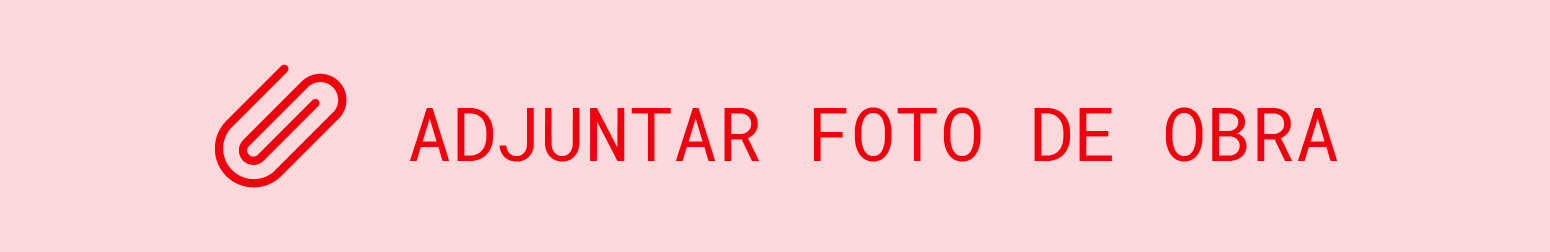
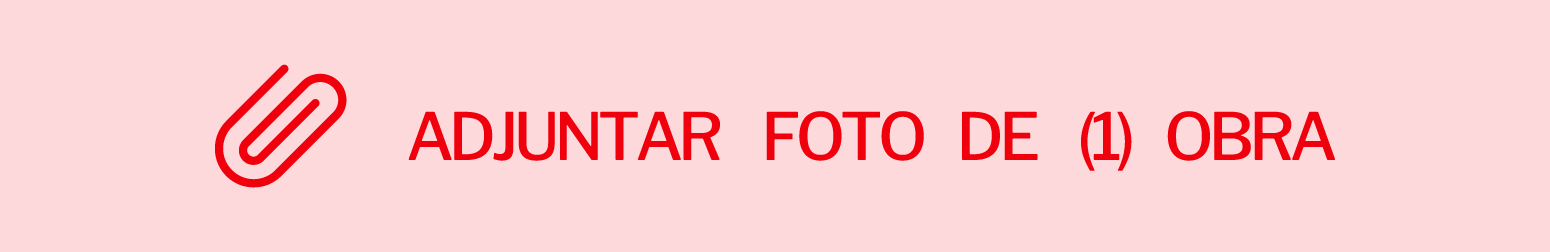
update

Changed region(s): [[0.2477, 0.4167, 0.8671, 0.6667]]

diff --git a/src/components/SectionFormPostula.js b/src/components/SectionFormPostula.js
@@ -1024,6 +1024,8 @@ function SectionFormPostula() {
                       </div>
                     </div>
 
+      
+
                     <div className="frow">
                       <div className="c2">
                         <label>Fotografía de la obra 1* </label>
@@ -1121,18 +1123,24 @@ function SectionFormPostula() {
                             alt="Upload"
                           />
                         </label>
+
+                        
                       </div>
-                      <div className="c2">{/* Espacio vacío */}</div>
+                      <div className="c2">
+                        <p className="font-inter text-[#F0000C] text-base font-medium mt-20 block">
+                          Postula con una (1) obra. Recuerda que no debe salir tu rostro ni firma en la foto.</p>
+                      </div>
                     </div>
 
                     <div className="frow">
-                      <div className="c1">
+                      <div className="c2">
                         <label>Para obras audiovisuales escribir link</label>
                         <Field type="text" name="LINK_WEB" id="LINK_WEB" />
                         <div className="ErrorMessage">
                           <ErrorMessage name="LINK_WEB" component="div" />
                         </div>
                       </div>
+                      
                     </div>
                   </fieldset>
 
